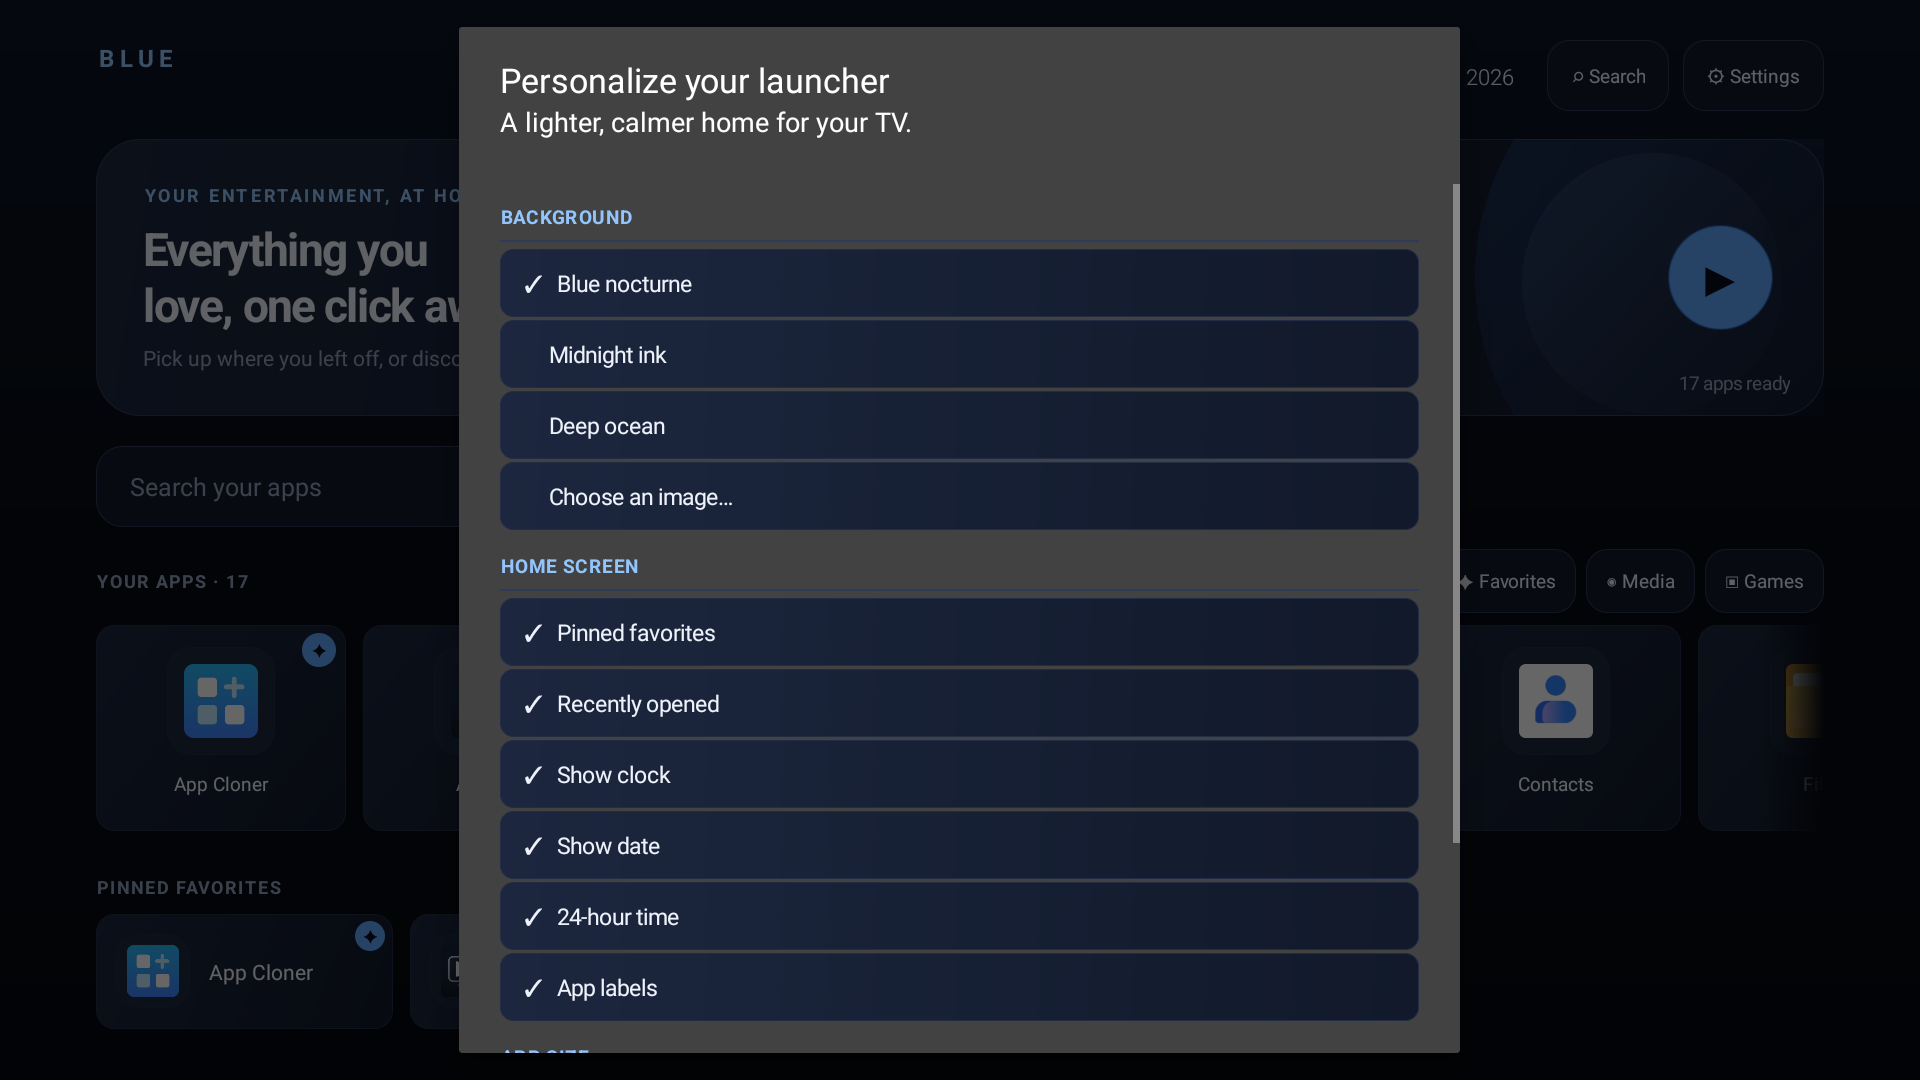
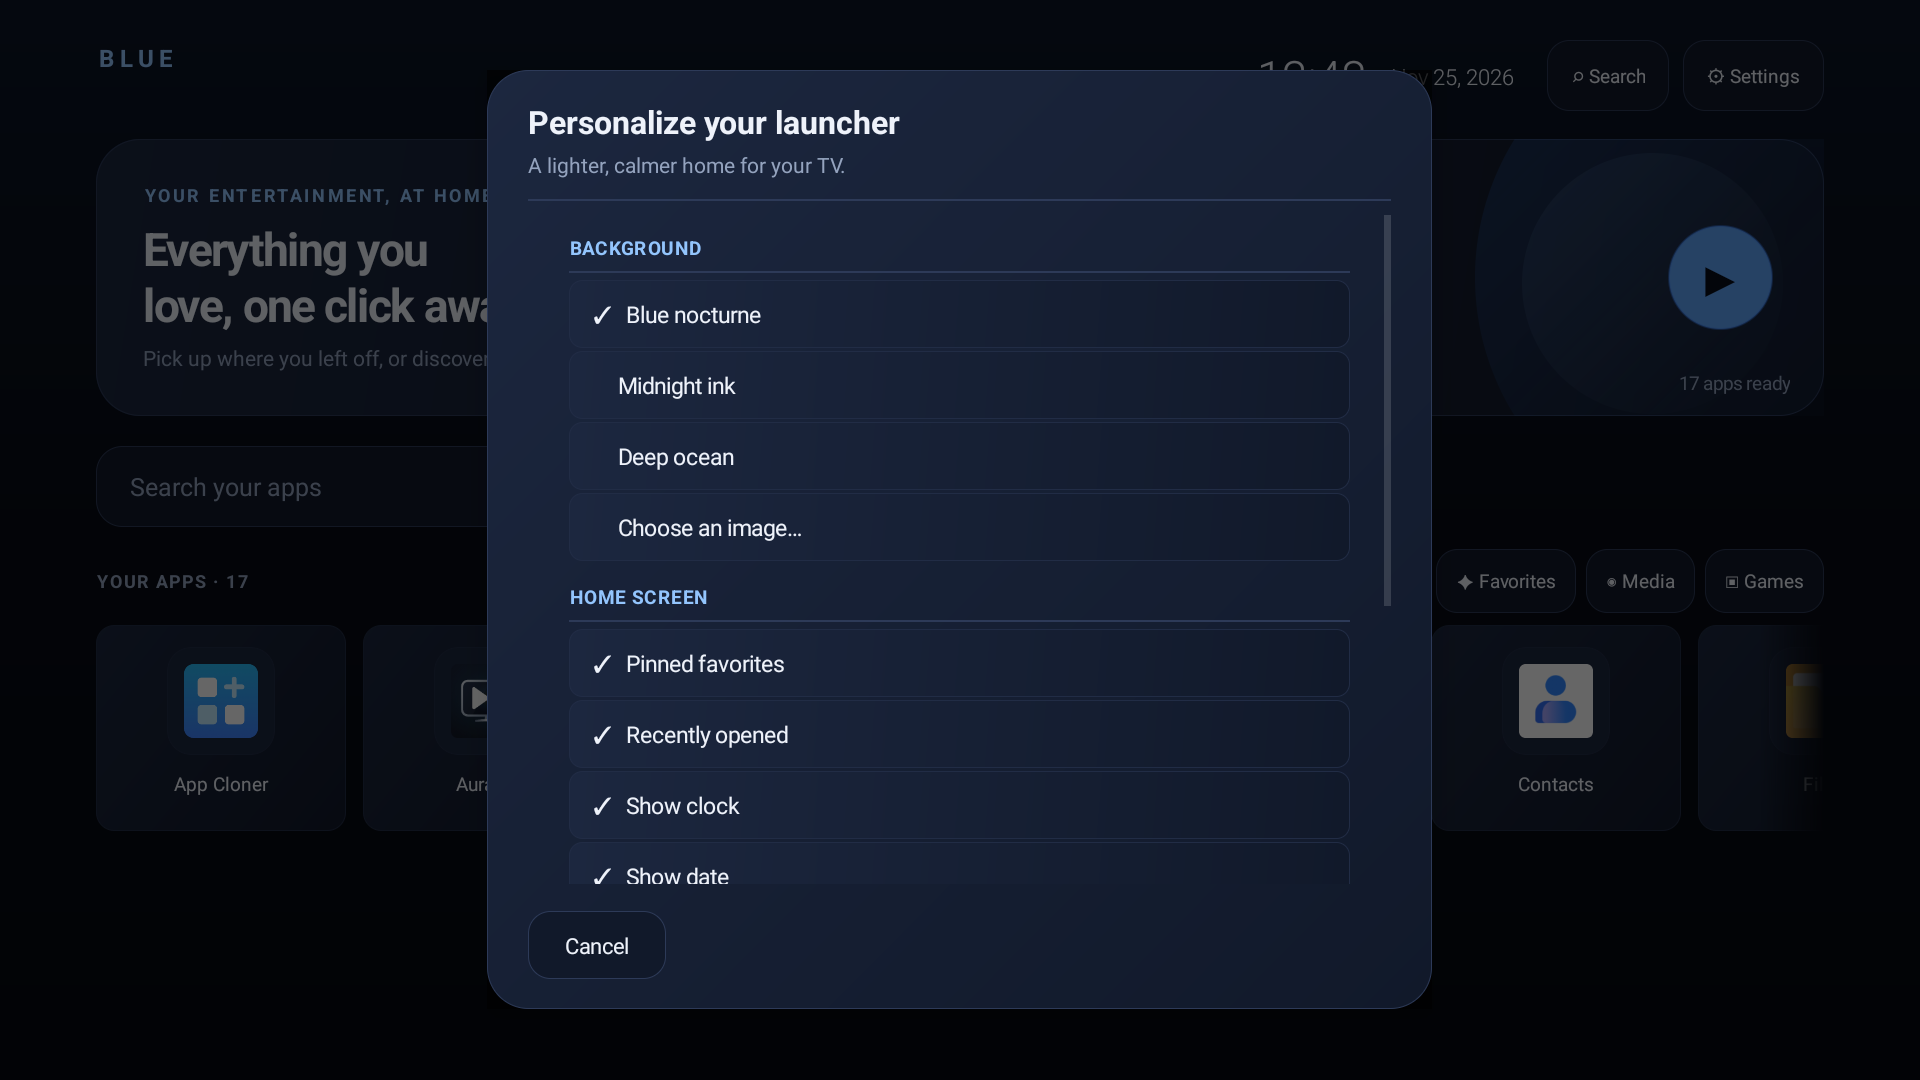
feat(ui): custom themed dialog panels replace platform AlertDialogs
Settings, About and the long-press app menu now render inside a
GradientDrawable panel that follows the active palette: navy gradient
card, accent divider, spotlight Cancel pill and D-pad focus glow.
A scrim keeps the home dimmed behind the dialog, and the scrollable
body is height-capped so the Cancel button always stays on-screen.
The README settings screenshot was retaken with the new panel.

diff --git a/app/src/main/kotlin/com/bluelabs/bluelauncher/ui/LauncherViews.kt b/app/src/main/kotlin/com/bluelabs/bluelauncher/ui/LauncherViews.kt
@@ -1,8 +1,9 @@
 package com.bluelabs.bluelauncher.ui
 
-import android.app.AlertDialog
+import android.app.Dialog
 import android.content.Context
 import android.graphics.drawable.BitmapDrawable
+import android.graphics.drawable.ColorDrawable
 import android.graphics.drawable.GradientDrawable
 import android.graphics.drawable.LayerDrawable
 import android.text.InputType
@@ -10,6 +11,8 @@ import android.view.Gravity
 import android.view.KeyEvent
 import android.view.View
 import android.view.ViewGroup
+import android.view.Window
+import android.view.WindowManager
 import android.view.inputmethod.EditorInfo
 import android.widget.EditText
 import android.widget.FrameLayout
@@ -229,6 +232,70 @@ class LauncherViews(
         if (bitmap?.isRecycled == false) bitmap.recycle()
     }
 
+    /**
+     * Custom in-theme dialog panel: gradient card, accent stroke, spotlight focus.
+     * Replaces the platform AlertDialog so every surface follows the active palette.
+     */
+    private fun showPanelDialog(
+        title: String,
+        subtitle: String?,
+        content: View,
+        dismissAction: ((Dialog) -> Unit)? = null,
+    ): Dialog {
+        val panel = LinearLayout(context).apply {
+            orientation = LinearLayout.VERTICAL
+            background = GradientDrawable(GradientDrawable.Orientation.TL_BR, intArrayOf(palette.surfaceRaised, palette.surface)).apply {
+                cornerRadius = dp(24).toFloat(); setStroke(1, palette.outline)
+            }
+            setPadding(dp(24), dp(18), dp(24), dp(18))
+        }
+        panel.addView(TextView(context).apply {
+            text = title; textSize = 19f; setTypeface(typeface, android.graphics.Typeface.BOLD)
+            setTextColor(palette.text)
+        })
+        if (subtitle != null) {
+            panel.addView(TextView(context).apply {
+                text = subtitle; textSize = 12.5f; setTextColor(palette.muted)
+            }, TvUi.params(-2, -2, top = dp(4)))
+        }
+        panel.addView(View(context).apply { setBackgroundColor(palette.outline) }, TvUi.params(-1, dp(1), top = dp(12), bottom = dp(8)))
+        // Cap the scrollable body so long lists never push the Cancel button off-screen.
+        content.measure(View.MeasureSpec.UNSPECIFIED, View.MeasureSpec.UNSPECIFIED)
+        val maxBodyHeight = (context.resources.displayMetrics.heightPixels * 0.62f).toInt()
+        panel.addView(content, LinearLayout.LayoutParams(-1, minOf(content.measuredHeight, maxBodyHeight).coerceAtLeast(dp(80))).apply { bottomMargin = dp(6) })
+        val cancelButton = TextView(context).apply {
+            text = context.getString(android.R.string.cancel); textSize = 13f; gravity = Gravity.CENTER
+            setPadding(dp(22), 0, dp(22), 0)
+            TvUi.setSelectableBackground(this, { palette }, 22f, pill = true)
+        }
+        panel.addView(cancelButton, TvUi.params(-2, dp(40), top = dp(10)))
+        val dialog = Dialog(context)
+        dialog.requestWindowFeature(Window.FEATURE_NO_TITLE)
+        dialog.setContentView(panel)
+        dialog.window?.apply {
+            setBackgroundDrawable(ColorDrawable(0x99000000.toInt()))
+            setLayout((context.resources.displayMetrics.widthPixels * 0.56f).toInt().coerceAtMost(dp(560)), ViewGroup.LayoutParams.WRAP_CONTENT)
+            setSoftInputMode(WindowManager.LayoutParams.SOFT_INPUT_STATE_ALWAYS_HIDDEN)
+        }
+        dialog.setOnKeyListener { _, keyCode, event ->
+            if (keyCode == KeyEvent.KEYCODE_BACK && event.action == KeyEvent.ACTION_UP) {
+                dialog.dismiss(); true
+            } else false
+        }
+        dialog.show()
+        cancelButton.setOnClickListener { dismissAction?.invoke(dialog) }
+        cancelButton.requestFocus()
+        return dialog
+    }
+
+    /** Dialog-wide list option row: check mark + label with a selectable focus card. */
+    private fun panelOption(label: String, selected: Boolean, action: () -> Unit) = TextView(context).apply {
+        text = if (selected) "✓   $label" else "     $label"
+        textSize = 13.5f; gravity = Gravity.CENTER_VERTICAL; setPadding(dp(14), 0, dp(14), 0)
+        setTextColor(if (selected) palette.accentBright else palette.text)
+        TvUi.setSelectableBackground(this, { palette }, 13f); setOnClickListener { action() }
+    }
+
     fun showSettings(
         onWallpaper: (String) -> Unit,
         onSections: (Boolean, Boolean) -> Unit,
@@ -280,9 +347,12 @@ class LauncherViews(
         page.addView(settingsOption(context.getString(R.string.reset_layout), false, onReset), TvUi.params(-1, dp(40), top = dp(10)))
         page.addView(settingsOption(context.getString(R.string.about_diagnostics), false, onAbout), TvUi.params(-1, dp(40), top = dp(2)))
         val scroll = ScrollView(context).apply { isFillViewport = true; addView(page) }
-        AlertDialog.Builder(context).setTitle(context.getString(R.string.settings_title))
-            .setMessage(context.getString(R.string.settings_subtitle)).setView(scroll)
-            .setNegativeButton(android.R.string.cancel, null).show()
+        showPanelDialog(
+            title = context.getString(R.string.settings_title),
+            subtitle = context.getString(R.string.settings_subtitle),
+            content = scroll,
+            dismissAction = { dialog -> dialog.dismiss() },
+        )
     }
 
     private fun divider() = View(context).apply { setBackgroundColor(palette.outline) }
@@ -294,9 +364,16 @@ class LauncherViews(
     }
 
     fun showAbout() {
-        AlertDialog.Builder(context).setTitle(context.getString(R.string.about_title))
-            .setMessage(context.getString(R.string.about_message, diagnostics?.invoke().orEmpty()))
-            .setPositiveButton(android.R.string.ok, null).show()
+        val message = TextView(context).apply {
+            text = context.getString(R.string.about_message, diagnostics?.invoke().orEmpty())
+            textSize = 13f; setTextColor(palette.text); setLineSpacing(dp(3).toFloat(), 1f)
+        }
+        showPanelDialog(
+            title = context.getString(R.string.about_title),
+            subtitle = null,
+            content = message,
+            dismissAction = { dialog -> dialog.dismiss() },
+        )
     }
 
     fun showLaunchError() {
@@ -553,20 +630,18 @@ class LauncherViews(
                     callbacks.toggleFavorite(app)
                     return@setOnLongClickListener true
                 }
-                AlertDialog.Builder(context).setTitle(app.label)
-                    .setItems(
-                        arrayOf(
-                            context.getString(R.string.remove_favorite),
-                            context.getString(R.string.move_toward_start),
-                            context.getString(R.string.move_toward_end),
-                        ),
-                    ) { _, which ->
-                        when (which) {
-                            0 -> callbacks.toggleFavorite(app)
-                            1 -> callbacks.reorderApp(app, -1)
-                            else -> callbacks.reorderApp(app, 1)
-                        }
-                    }.show()
+                val options = listOf(
+                    context.getString(R.string.remove_favorite) to { callbacks.toggleFavorite(app) },
+                    context.getString(R.string.move_toward_start) to { callbacks.reorderApp(app, -1) },
+                    context.getString(R.string.move_toward_end) to { callbacks.reorderApp(app, 1) },
+                )
+                var heldDialog: Dialog? = null
+                val menu = LinearLayout(context).apply { orientation = LinearLayout.VERTICAL }
+                options.forEach { (label, action) ->
+                    menu.addView(panelOption(label, false) { heldDialog?.dismiss(); action() },
+                        TvUi.params(-1, dp(42), bottom = dp(2)))
+                }
+                heldDialog = showPanelDialog(title = app.label, subtitle = null, content = menu)
                 true
             }
             setOnKeyListener { _, keyCode, event ->
